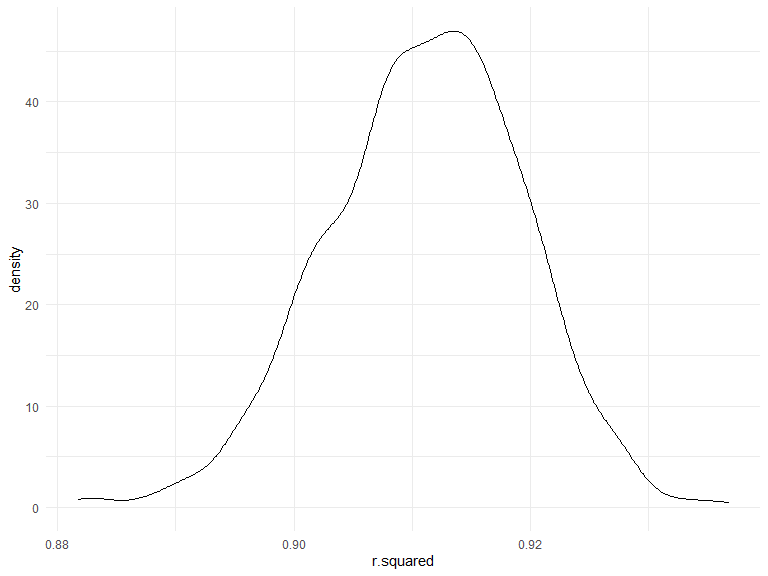
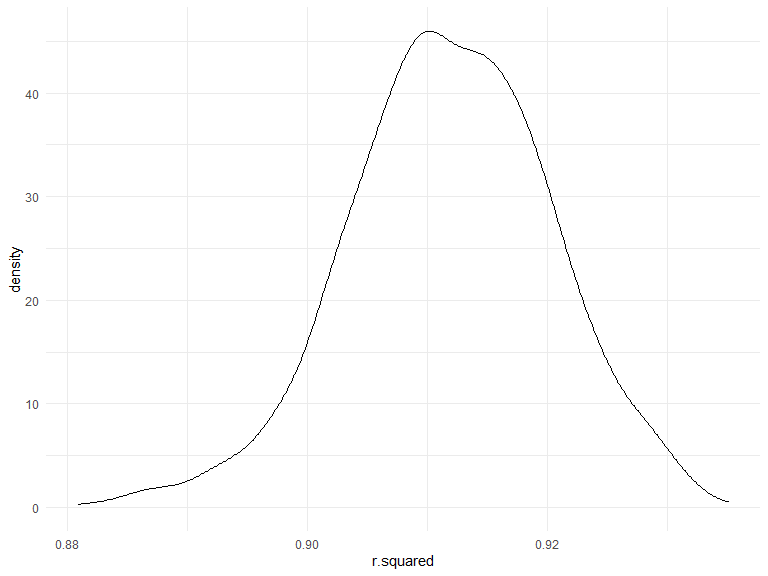
check solutions for problem 1

diff --git a/p8105_hw6_hm2900.md b/p8105_hw6_hm2900.md
@@ -40,6 +40,16 @@ weather_df %>%
 
 <img src="p8105_hw6_hm2900_files/figure-gfm/unnamed-chunk-2-1.png" width="90%" />
 
+In this example, the $\hat{r}^2$ value is high, and the upper bound at 1
+may be a cause for the generally skewed shape of the distribution. If we
+wanted to construct a confidence interval for $R^2$, we could take the
+2.5% and 97.5% quantiles of the estimates across bootstrap samples.
+However, because the shape isn’t symmetric, using the mean +/- 1.96
+times the standard error probably wouldn’t work well.
+
+We can produce a distribution for $\log(\beta_0 * \beta1)$ using a
+similar approach, with a bit more wrangling before we make our plot.
+
 ``` r
 weather_df %>% 
   modelr::bootstrap(n = 1000) %>% 
@@ -58,6 +68,15 @@ weather_df %>%
 ```
 
 <img src="p8105_hw6_hm2900_files/figure-gfm/unnamed-chunk-3-1.png" width="90%" />
+
+As with $r^2$, this distribution is somewhat skewed and has some
+outliers.
+
+The point of this is not to say you should always use the bootstrap –
+it’s possible to establish “large sample” distributions for strange
+parameters / values / summaries in a lot of cases, and those are great
+to have. But it is helpful to know that there’s a way to do inference
+even in tough cases.
 
 ## Problem 2
 
